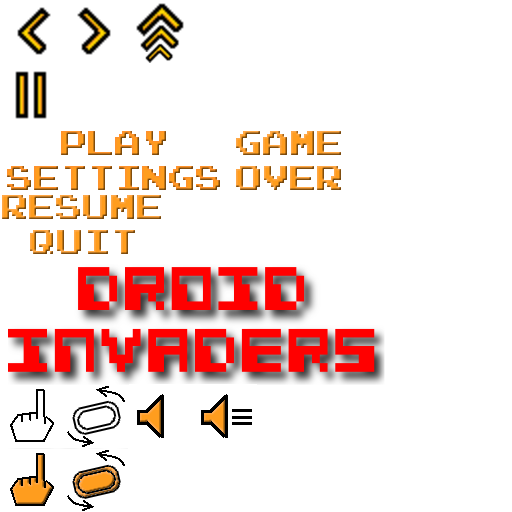
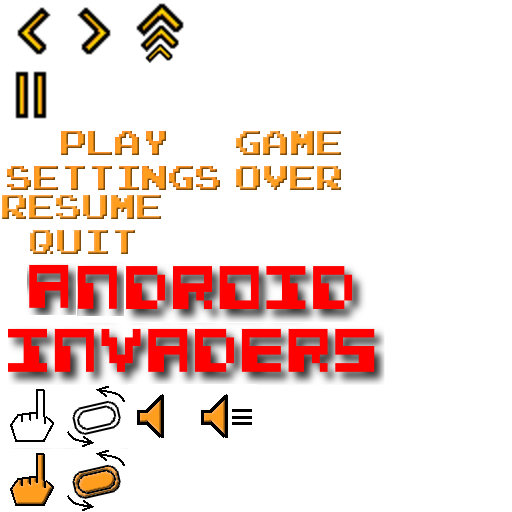
[fixed] more Droid Invaders references...

Changed region(s): [[0.0312, 0.5, 0.7188, 0.6562]]

diff --git a/ch12-droidinvaders/src/com/badlogic/androidgames/androidinvaders/Settings.java b/ch12-droidinvaders/src/com/badlogic/androidgames/androidinvaders/Settings.java
@@ -11,7 +11,7 @@ import com.badlogic.androidgames.framework.FileIO;
 public class Settings {
     public static boolean soundEnabled = true;
     public static boolean touchEnabled = true;
-    public final static String file = ".droidinvaders";
+    public final static String file = ".androidinvaders";
     
     public static void load(FileIO files) {
         BufferedReader in = null;
